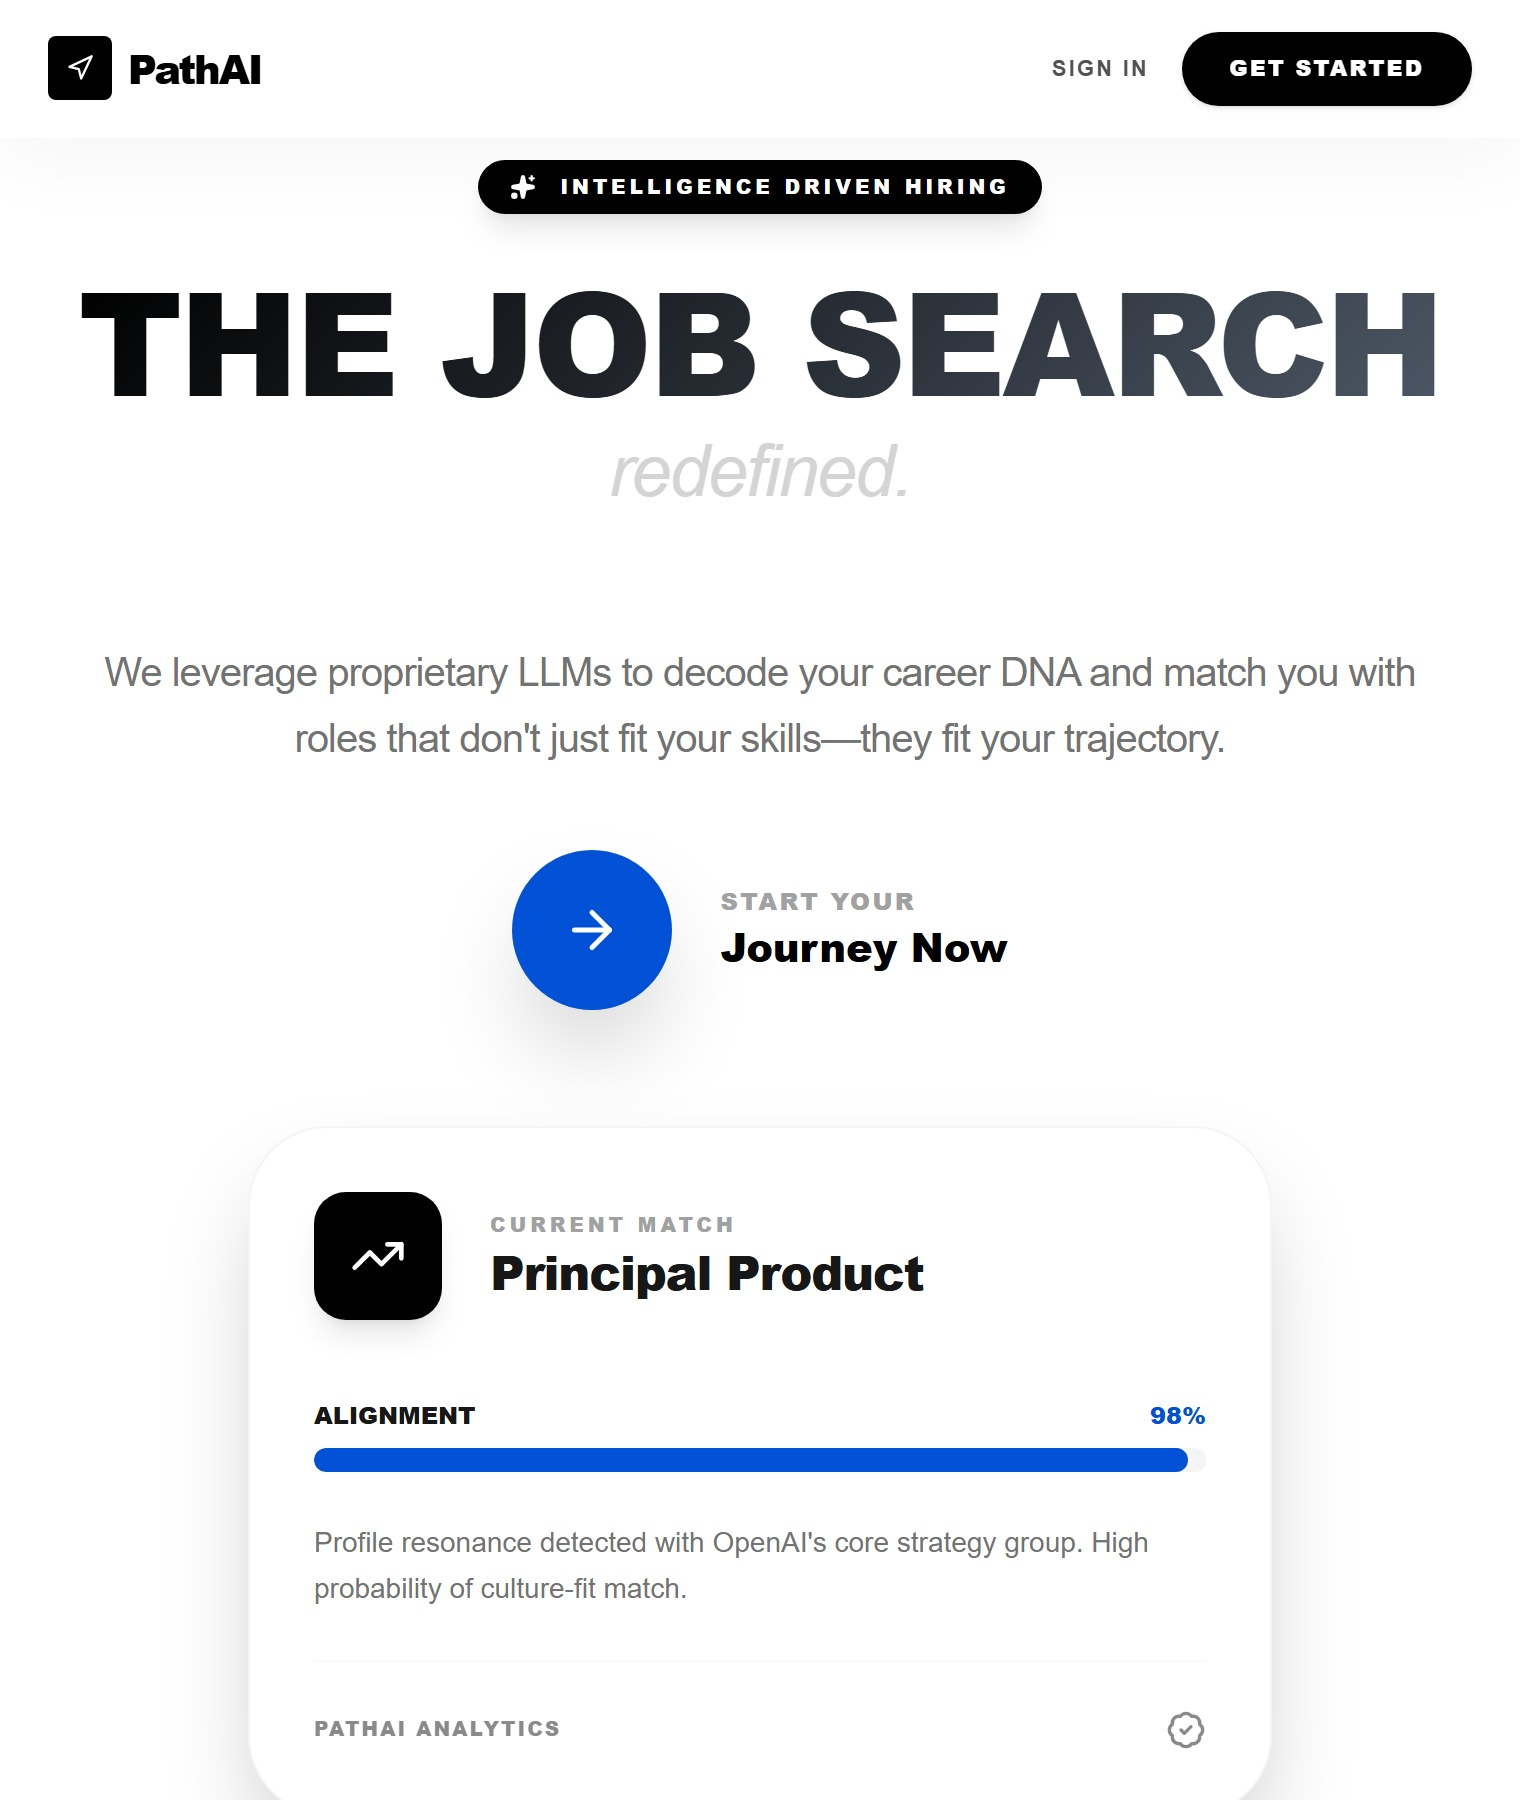
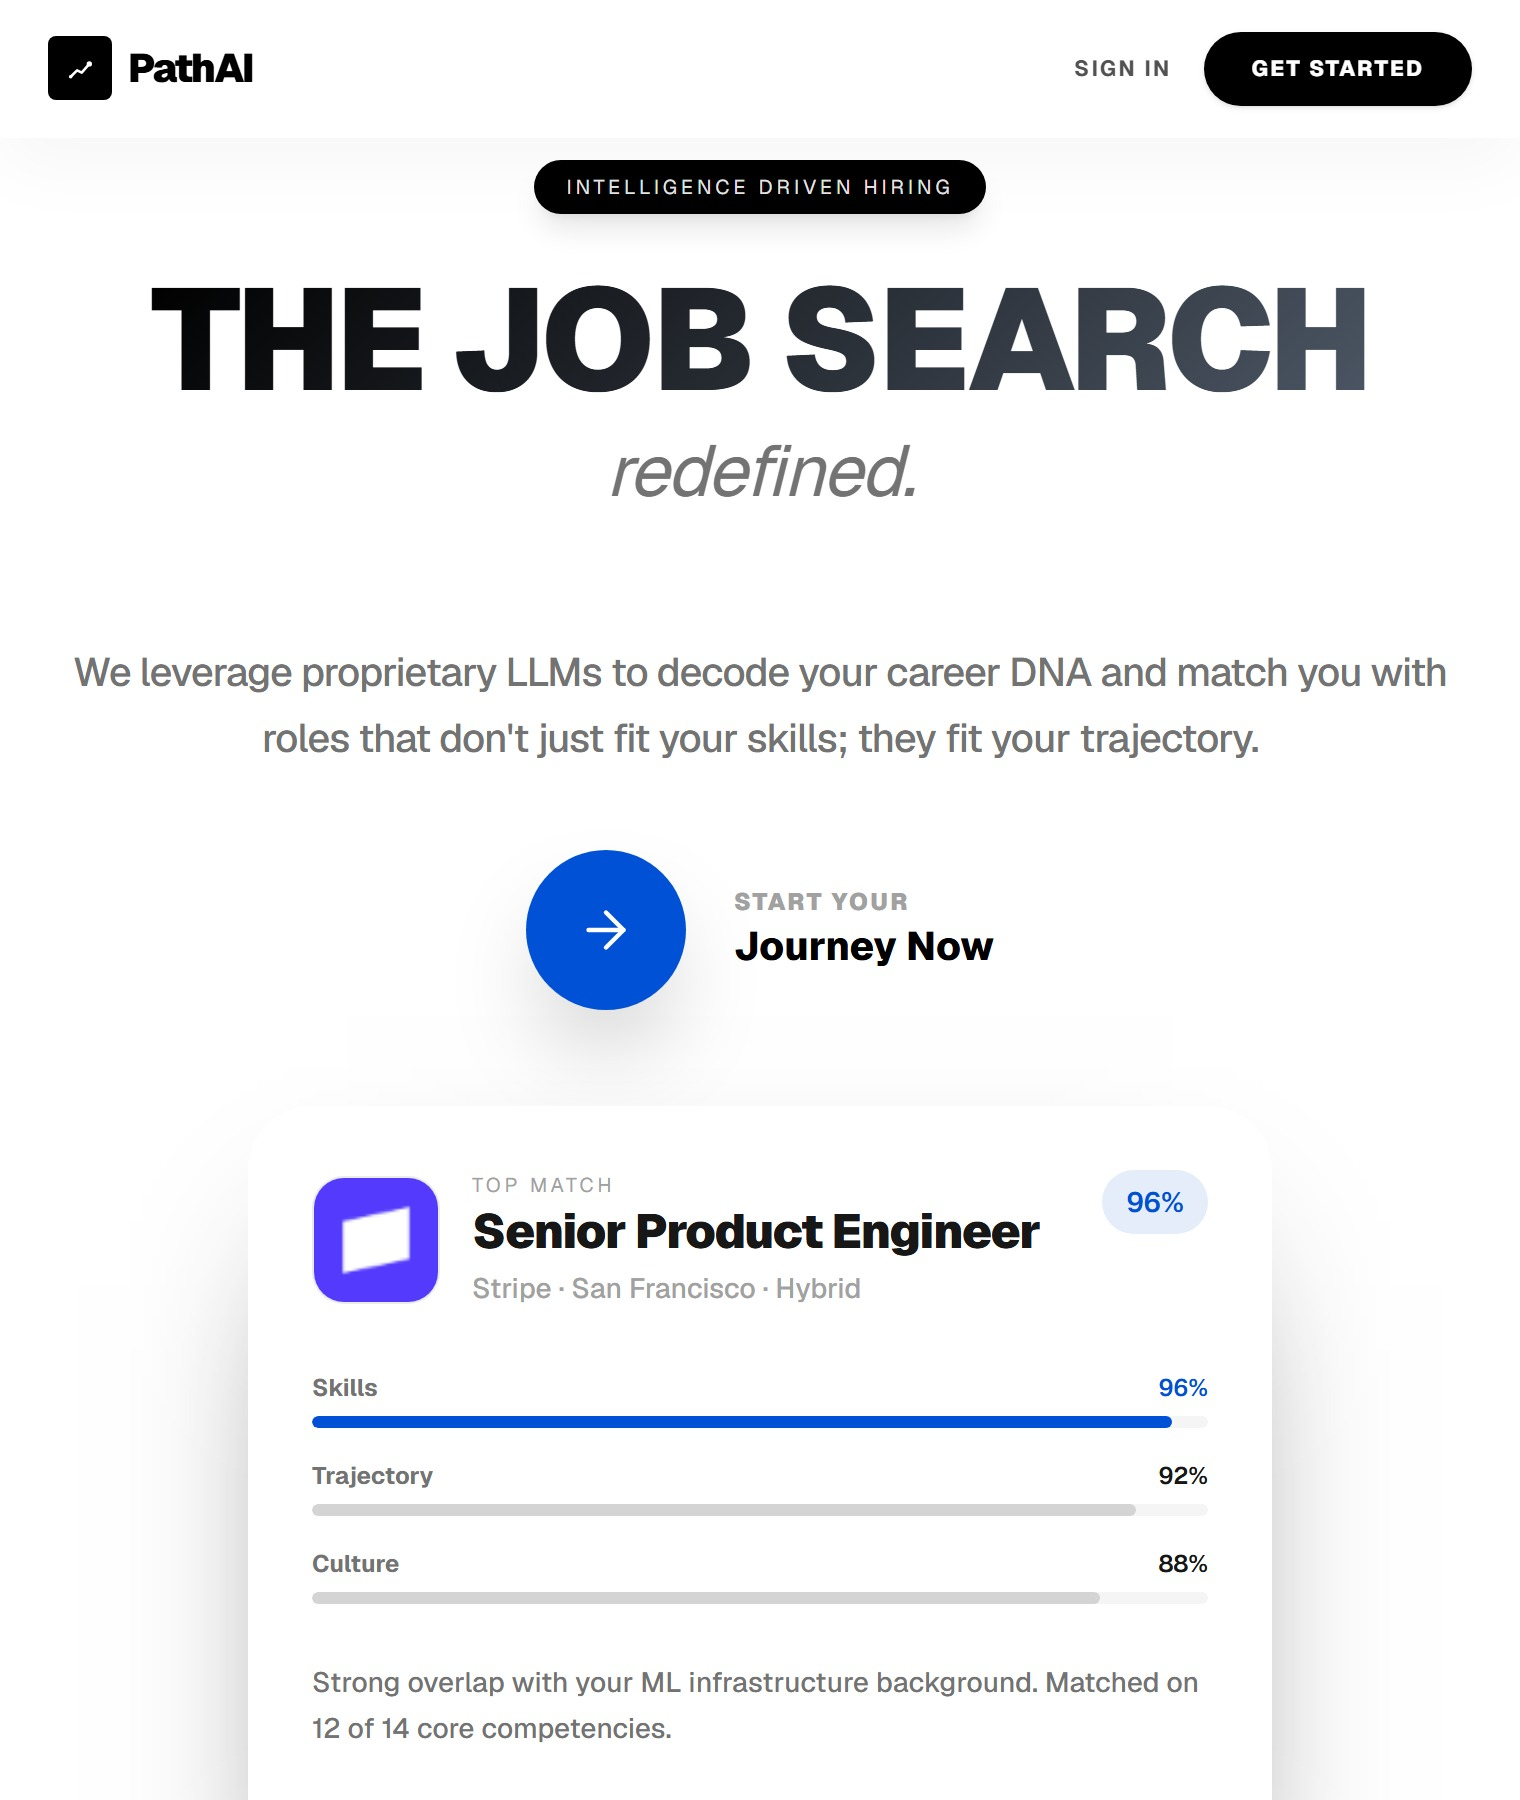
Update PathAI screenshot and link, and the résumé link
What: Re-shot the redesigned PathAI landing page, pointed the PathAI project at
its new URL, and updated the résumé link to a new Google Drive file.

Why: PathAI shipped a new landing page and moved to a new host
(usepathai.vercel.app). The résumé was also replaced with a newer version.

How:
- public/shots/pathai.jpg: recaptured at the standard 760px tablet width (see
  scripts/shots.mjs, updated with the new URL). Verified in the stage: the
  centered "THE JOB SEARCH redefined." hero and the match card frame cleanly
  with the existing "center" object-position, so no framing change was needed.
- app/page.tsx: updated the PathAI href to https://usepathai.vercel.app/ and
  the shared resumeUrl constant (used by the header and footer links).

diff --git a/app/page.tsx b/app/page.tsx
@@ -10,7 +10,7 @@ import BuildArtifact from "./BuildArtifact";
 
 gsap.registerPlugin(ScrollTrigger, useGSAP);
 
-const resumeUrl = "https://drive.google.com/file/d/1PBK70Vilt6ZW9J8aGRqA9h02wR_2zF_T/view?usp=sharing";
+const resumeUrl = "https://drive.google.com/file/d/17pwrc5DSiYTqkT7xk992f-AuPPFvDrjV/view?usp=sharing";
 const emailUrl = "mailto:baotran.swe@gmail.com";
 const githubUrl = "https://github.com/BaoT1301";
 const linkedinUrl = "https://www.linkedin.com/in/baot1301/";
@@ -78,7 +78,7 @@ const projects = [
     description: "An AI career engine that reads a resume as a trajectory, then ranks roles by skills, context, and long term fit.",
     result: "Opportunities are ranked by trajectory, skills, and context instead of keyword overlap alone.",
     tech: ["LLMs", "Career Matching", "Resume AI"],
-    href: "https://path-ai-xi.vercel.app/",
+    href: "https://usepathai.vercel.app/",
     status: "Live",
     visual: "path",
   },
